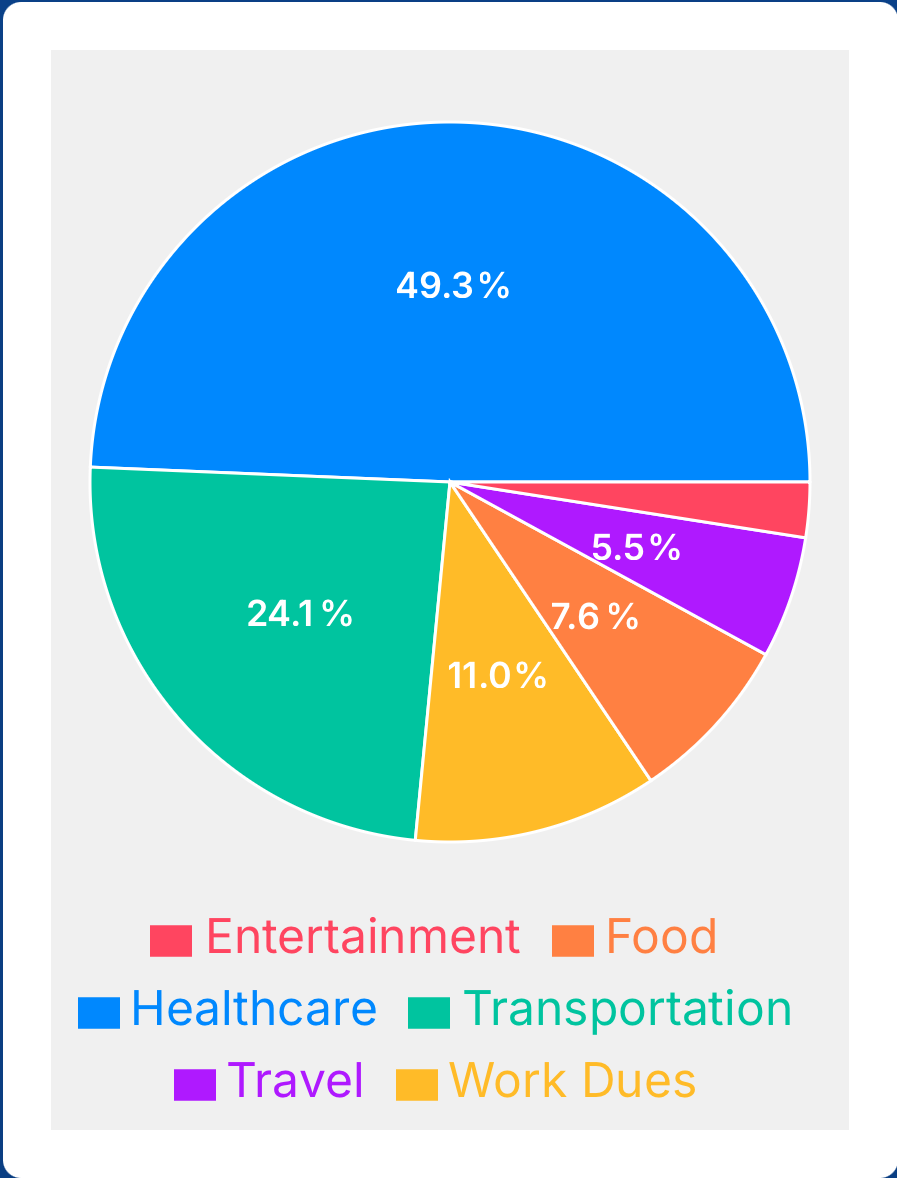
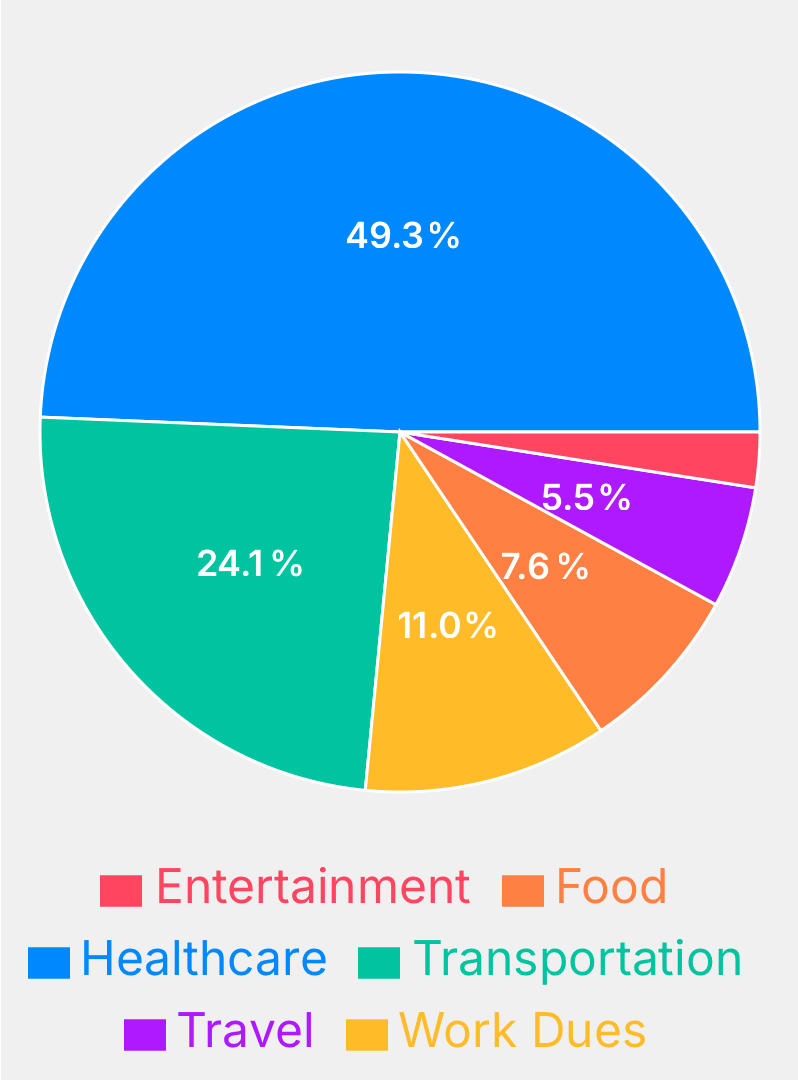
Fix Landing page card sizes, in mobile perfect in laptop too big

diff --git a/client/src/pages/Login.tsx b/client/src/pages/Login.tsx
@@ -33,7 +33,7 @@ export default function Login() {
   };
 
   return (
-    <div className="container-fluid">
+    <div className="landing-page">
 
          {/* ===== HEADER SECTION ======= */}
           <div className="login-header mt-4">
@@ -46,14 +46,15 @@ export default function Login() {
 
           {/* ===========  LEFT PANEL ============= */}
             <div className="left-panel">
-              <div className="dashboard-card mb-4">
-                <h5 className="text-primary fw-bold">Transaction Features</h5>
-                  <div className="image-wrapper">
+              <div className="text-white">
+                <h5 className="text-white fw-bold">Overview</h5>
+                  {/* <div className="image-wrapper">
                     <img src="add-transaction.png" alt="transaction-page" className="feature-image" />
-                  </div>
-                  <p>Your transaction starts here</p>
-                  <p>You can create expense, income or transfer</p>
-                  <p>Add a transaction uploading a file or use camera upload feature</p>
+                  </div> */}
+                  <ul>
+                  <li><p>Create expenses, income and transfers</p></li>
+                  <li><p>Upload receipts using file or camera</p></li>
+                  </ul>
               </div>
             </div>
 
@@ -62,7 +63,7 @@ export default function Login() {
                     <div className="dashboard-grid">
                           <div>
                             <div className="dashboard-card h-100">
-                              <h5 className="text-primary fw-bold"> 📊 Track Expenses</h5>
+                              <h5 className="text-primary fw-bold text-center"> 📊 Track Expenses</h5>
                               <div className="image-wrapper">
                                 <img src="expense-barchart.jpg" alt="expenses" className="feature-image" />
                               </div>
@@ -72,50 +73,47 @@ export default function Login() {
                     
                           <div>
                               <div className="dashboard-card h-100">
-                                <h5 className="text-primary fw-bold"> 📈 Financial Insight </h5>
+                                <h5 className="text-primary fw-bold text-center">Income donut</h5>
                                 <div className="image-wrapper">
-                                  <img  src="income-donut.png" alt="income" className="feature-image"/>
+                                  <img  src="income-donut.png" alt="income" className="chart-image"/>
                                 </div>
-                                <p>Understand how your money moves over time.</p>
+                                <p>Monitor your income from various sources</p>
                               </div>
                           </div>
                       
                             <div>
                                 <div className="dashboard-card h-100">
-                                  <h5 className="text-primary fw-bold"> 📈 Analytical</h5>
+                                  <h5 className="text-primary fw-bold text-center"> View expenses by percentage</h5>
                                   <div className="image-wrapper">
-                                    <div className="image-wrapper">
-                                      <img src="expense-piechart.png" alt="expense-piechart" className="feature-image" />
-                                    </div>
-                                    <p>Track where money goes.</p>
+                                      <img src="expense-piechart.png" alt="expense-piechart" className="chart-image" />  
                                   </div>
+                                  <p>Track where money goes.</p>
                                 </div>
                             </div>
                     
                             <div>
                                 <div className="dashboard-card h-100">
-                                  <h5 className="text-primary fw-bold">📈 Reports Features</h5>
+                                  <h5 className="text-primary fw-bold text-center">📈 Reports</h5>
                                   <div className="image-wrapper">
                                    <img src="report-page.png" alt="report-page" className="feature-image"/>
                                   </div>
-                                  <p>View your financial reports in Report Page</p>
+                                  <p>Analyze your finances using various Reports</p>
                                 </div>
                             </div>
 
                             <div>
                                 <div className="dashboard-card h-100">
-                                  <h5 className="text-primary fw-bold">Dashboard Features Screenshot</h5>
+                                  <h5 className="text-primary fw-bold text-center">Dashboard</h5>
                                   <div className="image-wrapper">
-                                    <img src="dashboard-laptop.png" alt="dashboard" className="feature-image"/>
+                                    <img src="dashboard.png" alt="dashboard" className="feature-image"/>
                                   </div>
-                                  <p>View current month's expense summary instatly</p> 
-                                  <p>Start navigation to all financial activities from here.</p>
+                                  <p>View current monthly summaries and navigate quickly</p> 
                                 </div>
                             </div>
 
                             <div>
                                 <div className="dashboard-card h-100">
-                                  <h5 className="text-primary fw-bold">View Budget Features</h5>
+                                  <h5 className="text-primary fw-bold text-center">View Budget Features</h5>
                                   <div className="image-wrapper">
                                     <img src="budget-page.png" alt="budget-page" className="feature-image"/>
                                   </div>

diff --git a/client/src/Landing.css b/client/src/Landing.css
@@ -13,8 +13,9 @@
 .login-header {
     display: flex;
     flex-shrink: 0;
-    padding: 1rem 2rem;
-    gap: 2rem;
+    min-height: 220px;
+    padding: 2rem 3rem;
+    gap: 1rem;
 }
 
 /* ========== Main Area ========= */
@@ -30,9 +31,9 @@
  .landing-grid{
     flex: 1;
     display: grid;
-    grid-template-columns: 0.5fr 2fr 300px;
-    gap: 1.5rem;
-    height: 100%;
+    grid-template-columns: 260px 1fr 280px;
+    gap: 1rem;
+    height: calc(100vh - 220px);
     overflow: hidden;
  }
 
@@ -40,8 +41,9 @@
     display: grid;
     grid-template-columns: repeat(3, 1fr);
     grid-template-rows: repeat(2, 1fr);
-    gap: 1rem;
+    gap: .75rem;
     height: 100%;
+    /* align-content: start; */
  }
 
  /* =========== PANELS =========== */
@@ -54,6 +56,7 @@
     border-radius: 24px;
     padding: 1.5rem;
     overflow: hidden;
+    min-width: 0;
  }
 
  /* ==========LOGIN PANELS ======== */
@@ -62,8 +65,7 @@
     display: flex;
     flex-direction: column;
     justify-content: center;
- }
-
+ }  
 
 /* ========== CARD STYLING ======== */
 
@@ -72,9 +74,8 @@
     flex-direction: column;
     background: white;
     border-radius: 20px;
-    padding: 1rem;
-    /* height: 100%; */
-    aspect-ratio: 1.2 / 1;
+    padding: 0.75rem;
+    min-height: 0;
 }
 
 /* ========== IMAGES ======== */
@@ -82,16 +83,16 @@
 .feature-image,
 .chart-image {
     width: 100%;
-    max-height: 120px;
-    height: auto;
+    height: 100%;
     object-fit: contain;
 }
+
 .image-wrapper{
-    height: 120px;
-    /* flex: 1; */
+    flex: 1;
     display: flex;
     justify-content: center;
     align-items: center;
+    min-height: 120px;
 }
 
 /* ========== FOOTER ======== */

diff --git a/client/dev-dist/sw.js b/client/dev-dist/sw.js
@@ -81,7 +81,7 @@ define(['./workbox-7e5eb42b'], (function (workbox) { 'use strict';
     "revision": "3ca0b8505b4bec776b69afdba2768812"
   }, {
     "url": "index.html",
-    "revision": "0.8pc1c6ou0ng"
+    "revision": "0.3pfa2tb8h3g"
   }], {});
   workbox.cleanupOutdatedCaches();
   workbox.registerRoute(new workbox.NavigationRoute(workbox.createHandlerBoundToURL("index.html"), {

diff --git a/client/src/components/InstallButton.tsx b/client/src/components/InstallButton.tsx
@@ -58,7 +58,7 @@ export default function InstallButton() {
     if (isIOS) {
         return (
             <button 
-               className="btn btn-outline-warning btn-sm"
+               className="btn btn-warning btn-sm"
                onClick={() => 
                 alert(
                     'To install SmartBooks: \n\nTap Share -> Add to Home Screen'